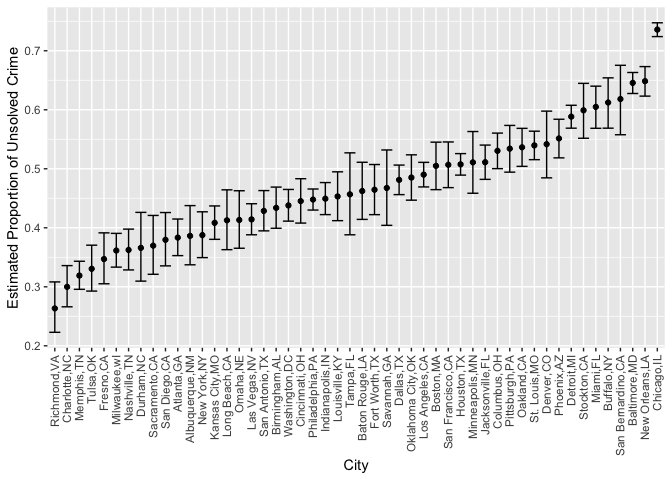
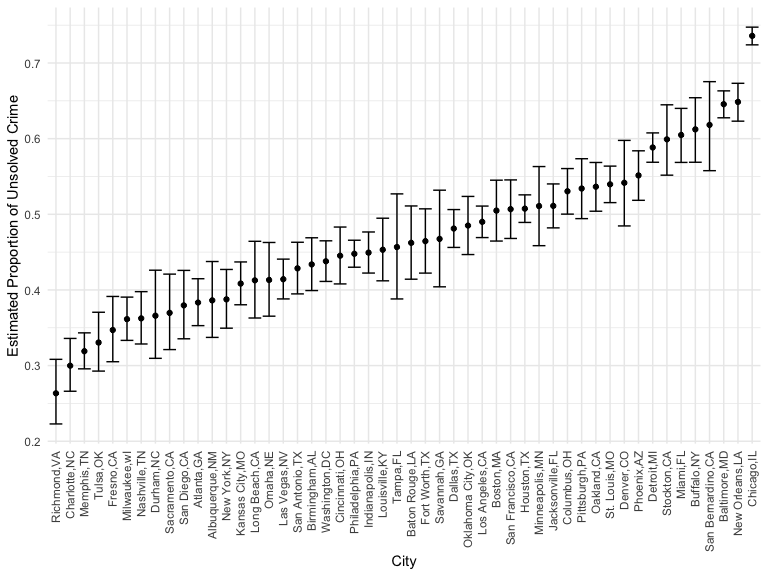
Adding graph settings, a ggplot graph is not showing in the md file. But you can find it in the figure folder

diff --git a/p8105_hw5_yj2752.md b/p8105_hw5_yj2752.md
@@ -8,6 +8,24 @@ Yixuan Jiao
 library(purrr)
 library(tidyverse)
 set.seed(2022)
+
+knitr::opts_chunk$set(
+    echo = TRUE,
+    warning = FALSE,
+    fig.width = 8, 
+  fig.height = 6,
+  out.width = "90%"
+)
+
+theme_set(theme_minimal() + theme(legend.position = "bottom"))
+
+options(
+  ggplot2.continuous.colour = "viridis",
+  ggplot2.continuous.fill = "viridis"
+)
+
+scale_colour_discrete = scale_colour_viridis_d
+scale_fill_discrete = scale_fill_viridis_d
 ```
 
 ## Problem1
@@ -182,7 +200,7 @@ cases_prop %>%
   theme(axis.text.x = element_text(angle = 90, vjust = 0.5, hjust=1))
 ```
 
-![](p8105_hw5_yj2752_files/figure-gfm/unnamed-chunk-11-1.png)<!-- -->
+<img src="p8105_hw5_yj2752_files/figure-gfm/unnamed-chunk-11-1.png" width="90%" />
 
 ## Problem3
 
@@ -270,7 +288,7 @@ result_df %>%
 
     ## `geom_smooth()` using method = 'loess' and formula 'y ~ x'
 
-![](p8105_hw5_yj2752_files/figure-gfm/unnamed-chunk-16-1.png)<!-- -->
+<img src="p8105_hw5_yj2752_files/figure-gfm/unnamed-chunk-16-1.png" width="90%" />
 Since the datasets are generated by a true mean and given n and sigma,
 the average $\hat{\mu}$ of total 5000 simulated datasets would always
 close to its true mean, but as the true mean is small (or closed to 0),
@@ -293,4 +311,4 @@ result_df %>%
        color = "Subsets")
 ```
 
-![](p8105_hw5_yj2752_files/figure-gfm/unnamed-chunk-17-1.png)<!-- -->
+<img src="p8105_hw5_yj2752_files/figure-gfm/unnamed-chunk-17-1.png" width="90%" />
